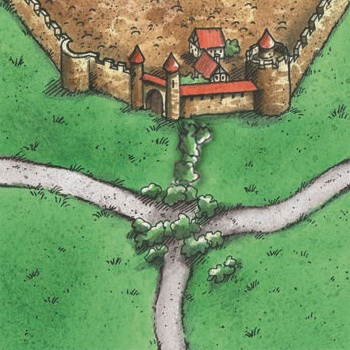
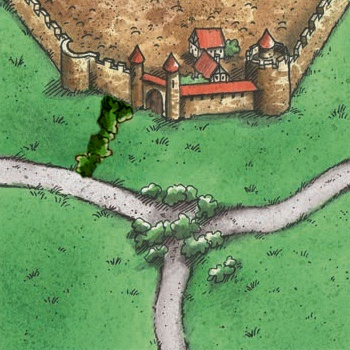
nicer bushes better shuffle and random card generator some small fixes / improvements

Changed region(s): [[0.4857, 0.3143, 0.6286, 0.5429], [0.2, 0.2571, 0.4, 0.5143]]

diff --git a/src/Game.cpp b/src/Game.cpp
@@ -11,6 +11,12 @@
 Game::Game(Connection* connection, int card_number, const std::map<std::string, int>& card_count, bool allow_mirror)
   : stack_(card_number, card_count), connection_(connection), card_count_(card_count), allow_mirror_(allow_mirror)
 {
+  if(connection_->iAmHost()){
+    while(!statisticsFair(calcCardStatistics(stack_.getAllCards(), connection_->players_.size()))){
+      stack_ = Stack(card_number, card_count);
+    }
+  }
+
   if(!std::filesystem::exists("save_games")){
     std::filesystem::create_directory("save_games");
   }
@@ -386,18 +392,14 @@ void Game::recv(){
 }
 
 
-std::tuple<std::vector<wxString>, std::vector<wxString>, std::vector<std::vector<int>>> Game::getCardStatistics() const {
-  std::lock_guard<std::mutex> lock(data_lock_);
-  std::vector<wxString> column_labels = {"City", "Road", "Meadow", "Monastery", "Multi-City", "Crossroad"};
-  std::vector<wxString> row_labels;
+std::vector<std::vector<int>> Game::calcCardStatistics(const std::list<Card>& cards, size_t num_players) const {
   std::vector<std::vector<int>> content;
-  for(size_t pi = 0; pi < players_.size(); pi++){
-    row_labels.push_back(players_[pi].name_);
-    content.emplace_back(std::vector<int>(column_labels.size(), 0));
+  for(size_t pi = 0; pi < num_players; pi++){
+    content.emplace_back(std::vector<int>(6, 0));
   }
   size_t i = 0;
-  for(const auto& c : played_cards_){
-    size_t pi = i % players_.size();
+  for(const auto& c : cards){
+    size_t pi = i % num_players;
     if(c.imageNr() >= int(Card::CARD_IMAGES.size()))
       continue;
     const Card::CardImage& cimg = Card::CARD_IMAGES[c.imageNr()];
@@ -409,7 +411,40 @@ std::tuple<std::vector<wxString>, std::vector<wxString>, std::vector<std::vector
     content[pi][5] += cimg.special_ == Card::Special::CROSSROAD;
     i++;
   }
+
+  return content;
+}
+
+
+std::tuple<std::vector<wxString>, std::vector<wxString>, std::vector<std::vector<int>>> Game::getCardStatistics(const std::list<Card>& cards) const {
+  std::lock_guard<std::mutex> lock(data_lock_);
+  std::vector<wxString> column_labels = {"City", "Road", "Meadow", "Monastery", "Multi-City", "Crossroad"};
+  std::vector<wxString> row_labels;
+  for(size_t pi = 0; pi < players_.size(); pi++){
+    row_labels.push_back(players_[pi].name_);
+  }
+  std::vector<std::vector<int>> content = calcCardStatistics(cards, players_.size());
+
   return std::make_tuple(column_labels, row_labels, content);
+}
+
+
+bool Game::statisticsFair(const std::vector<std::vector<int>>& stats) const {
+  std::vector<double> sum(stats.front().size(), 0.0);
+  for(const auto& ps : stats){
+    for(size_t i=0; i<sum.size(); i++){
+      sum[i] += ps[i];
+    }
+  }
+  for(const auto& ps : stats){
+    for(size_t i=0; i<sum.size(); i++){
+      double mean = sum[i] / stats.size();
+      if(std::abs(ps[i] - mean) > (2 + std::max(0.1, 0.015*stats.size())*mean)){
+        return false;
+      }
+    }
+  }
+  return true;
 }
 
 

diff --git a/forms/StatisticsWindow_B.cpp b/forms/StatisticsWindow_B.cpp
@@ -17,7 +17,7 @@ StatisticsWindow_B::StatisticsWindow_B( wxWindow* parent, wxWindowID id, const w
 
 	graph_panel_ = new wxPanel( this, wxID_ANY, wxDefaultPosition, wxDefaultSize, wxBORDER_NONE|wxFULL_REPAINT_ON_RESIZE|wxTAB_TRAVERSAL );
 	graph_panel_->SetForegroundColour( wxColour( 0, 0, 0 ) );
-	graph_panel_->SetBackgroundColour( wxColour( 255, 255, 255 ) );
+	graph_panel_->SetBackgroundColour( wxColour( 245, 238, 228 ) );
 	graph_panel_->SetMinSize( wxSize( 640,640 ) );
 
 	sizer_->Add( graph_panel_, 0, wxEXPAND | wxALL, 5 );
@@ -25,7 +25,7 @@ StatisticsWindow_B::StatisticsWindow_B( wxWindow* parent, wxWindowID id, const w
 	stats_grid_ = new wxGrid( this, wxID_ANY, wxDefaultPosition, wxDefaultSize, 0 );
 
 	// Grid
-	stats_grid_->CreateGrid( 0, 6 );
+	stats_grid_->CreateGrid( 0, 7 );
 	stats_grid_->EnableEditing( false );
 	stats_grid_->EnableGridLines( true );
 	stats_grid_->EnableDragGridSize( false );
@@ -35,14 +35,16 @@ StatisticsWindow_B::StatisticsWindow_B( wxWindow* parent, wxWindowID id, const w
 	stats_grid_->AutoSizeColumns();
 	stats_grid_->EnableDragColMove( false );
 	stats_grid_->EnableDragColSize( false );
-	stats_grid_->SetColLabelValue( 0, wxT("City") );
-	stats_grid_->SetColLabelValue( 1, wxT("Road") );
-	stats_grid_->SetColLabelValue( 2, wxT("Meadow") );
-	stats_grid_->SetColLabelValue( 3, wxT("Monestary") );
-	stats_grid_->SetColLabelValue( 4, wxT("Multi-City") );
-	stats_grid_->SetColLabelValue( 5, wxT("Crossroad") );
-	stats_grid_->SetColLabelValue( 6, wxT("City") );
-	stats_grid_->SetColLabelValue( 7, wxEmptyString );
+	stats_grid_->SetColLabelValue( 0, wxT(" ") );
+	stats_grid_->SetColLabelValue( 1, wxT("City") );
+	stats_grid_->SetColLabelValue( 2, wxT("Road") );
+	stats_grid_->SetColLabelValue( 3, wxT("Meadow") );
+	stats_grid_->SetColLabelValue( 4, wxT("Monestary") );
+	stats_grid_->SetColLabelValue( 5, wxT("Multi-City") );
+	stats_grid_->SetColLabelValue( 6, wxT("Crossroad") );
+	stats_grid_->SetColLabelValue( 7, wxT("City") );
+	stats_grid_->SetColLabelValue( 8, wxEmptyString );
+	stats_grid_->SetColLabelValue( 9, wxEmptyString );
 	stats_grid_->SetColLabelAlignment( wxALIGN_CENTER, wxALIGN_CENTER );
 
 	// Rows

diff --git a/src/Stack.cpp b/src/Stack.cpp
@@ -5,6 +5,7 @@
 #include <Stack.h>
 #include <algorithm>
 #include <random>
+#include "Message.h"
 
 Stack::Stack(unsigned card_number, const std::map<std::string, int>& card_count){
   if(!Card::initCardImages())
@@ -25,7 +26,7 @@ Stack::Stack(unsigned card_number, const std::map<std::string, int>& card_count)
   if(deck.size() < 1)
     return;
 
-  std::mt19937 eng(time(0));
+  std::mt19937 eng(getID() % std::numeric_limits<unsigned>::max());
   while(used_cards.size() < card_number) {
     if(card_number - used_cards.size() >= deck.size())
       used_cards.insert(used_cards.end(), deck.begin(), deck.end());
@@ -44,12 +45,8 @@ Stack::Stack(unsigned card_number, const std::map<std::string, int>& card_count)
 }
 
 void Stack::shuffle(){
-  std::vector<Card> tmp;
-  for(const auto& c : cards_)
-      tmp.push_back(c);
-  std::mt19937 eng(time(0));
-  std::shuffle(tmp.begin(), tmp.end(), eng);
-  cards_ = std::list<Card>(tmp.begin(), tmp.end());
+  std::mt19937 eng(getID() % std::numeric_limits<unsigned>::max());
+  cards_.front() = Card(std::uniform_int_distribution<int>(0, Card::CARD_IMAGES.size())(eng));
 }
 
 Card* Stack::next() {

diff --git a/include/Game.h b/include/Game.h
@@ -93,7 +93,9 @@ class Game{
 
     void recv();
 
-    std::tuple<std::vector<wxString>, std::vector<wxString>, std::vector<std::vector<int>>> getCardStatistics() const;
+    std::vector<std::vector<int>> calcCardStatistics(const std::list<Card>& cards, size_t num_players) const;
+    std::tuple<std::vector<wxString>, std::vector<wxString>, std::vector<std::vector<int>>> getCardStatistics(const std::list<Card>& cards) const;
+    bool statisticsFair(const std::vector<std::vector<int>>& stats) const;
     void appendPointsPerRound();
     std::vector<std::tuple<wxString, wxColor, std::vector<int>>> getPointsPerRound() const;
 };

diff --git a/src/StatisticsWindow.cpp b/src/StatisticsWindow.cpp
@@ -19,8 +19,9 @@ StatisticsWindow::StatisticsWindow(wxWindow* parent,
   stats_grid_->AppendRows(row_labels.size());
   for(size_t i=0; i<row_labels.size(); i++){
     stats_grid_->SetRowLabelValue(i, row_labels[i]);
-    for(size_t j=0; j<std::min(data[i].size(), size_t(stats_grid_->GetNumberCols())); j++){
-      stats_grid_->SetCellValue(i, j, std::to_string(data[i][j]));
+    stats_grid_->SetCellBackgroundColour(i, 0, std::get<1>(pts_[i]));
+    for(size_t j=0; j<std::min(data[i].size(), data[i].size()); j++){
+      stats_grid_->SetCellValue(i, j+1, std::to_string(data[i][j]));
     }
   }
   stats_grid_->AutoSize();

diff --git a/include/MainFrame.h b/include/MainFrame.h
@@ -41,7 +41,7 @@ class MainFrame : public MainFrame_B{
     virtual void screenshot( wxCommandEvent& event ) { takeScreenshot(""); }
     virtual void viewSettings( wxCommandEvent& event );
     virtual void showStatistics( wxCommandEvent& event ) {
-      auto wnd = new StatisticsWindow(this, game_->getCardStatistics(), game_->getPointsPerRound());
+      auto wnd = new StatisticsWindow(this, game_->getCardStatistics(game_->played_cards_), game_->getPointsPerRound());
       wnd->Show();
     }
 

diff --git a/src/GameDialog.cpp b/src/GameDialog.cpp
@@ -81,7 +81,7 @@ void GameDialog::quit( wxCommandEvent& event ) {
 }
 
 void GameDialog::start( wxCommandEvent& event ) {
-  std::mt19937 eng(time(0));
+  std::mt19937 eng(getID() % std::numeric_limits<unsigned>::max());
   std::shuffle(connection_->players_.begin(), connection_->players_.end(), eng);
   connection_->game_status_ = int(GameStatus::STARTED);
   ack_.resize(connection_->players_.size(), false);

diff --git a/src/LobbyDialog.cpp b/src/LobbyDialog.cpp
@@ -38,7 +38,7 @@ void LobbyDialog::recv(){
 }
 
 void LobbyDialog::create( wxCommandEvent& event ){
-  connection_->game_name_ = tmp_game_name_;
+  connection_->game_name_ = game_name_textctrl_->GetValue();
   connection_->game_id_ = getID();
   connection_->host_ = connection_->player_id_;
   connection_->players_ = {PlayerCon(connection_->player_id_, connection_->player_name_, 0)};

diff --git a/include/Stack.h b/include/Stack.h
@@ -23,6 +23,7 @@ class Stack{
     void push(const Card& card);
     void shuffle();
     int getLeftCards() const { return cards_.size(); }
+    const std::list<Card>& getAllCards() const { return cards_; }
 
     friend void to_json(nlohmann::json& j, const Stack& s) {
       j = nlohmann::json{{"cards", s.cards_}};
